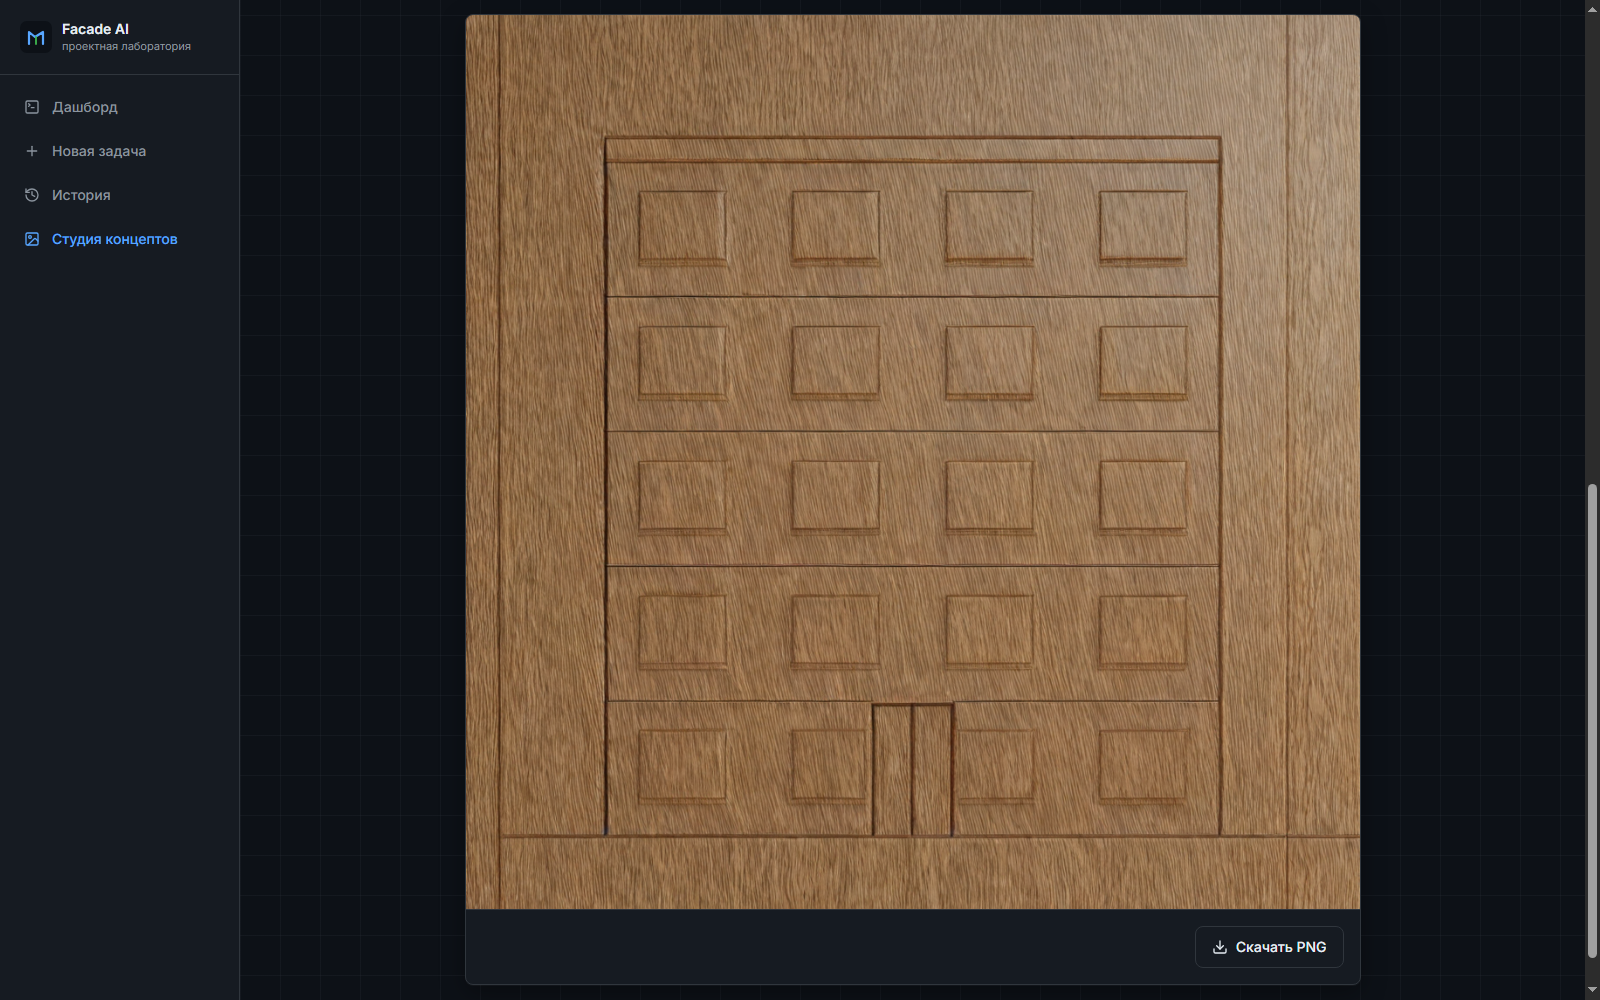
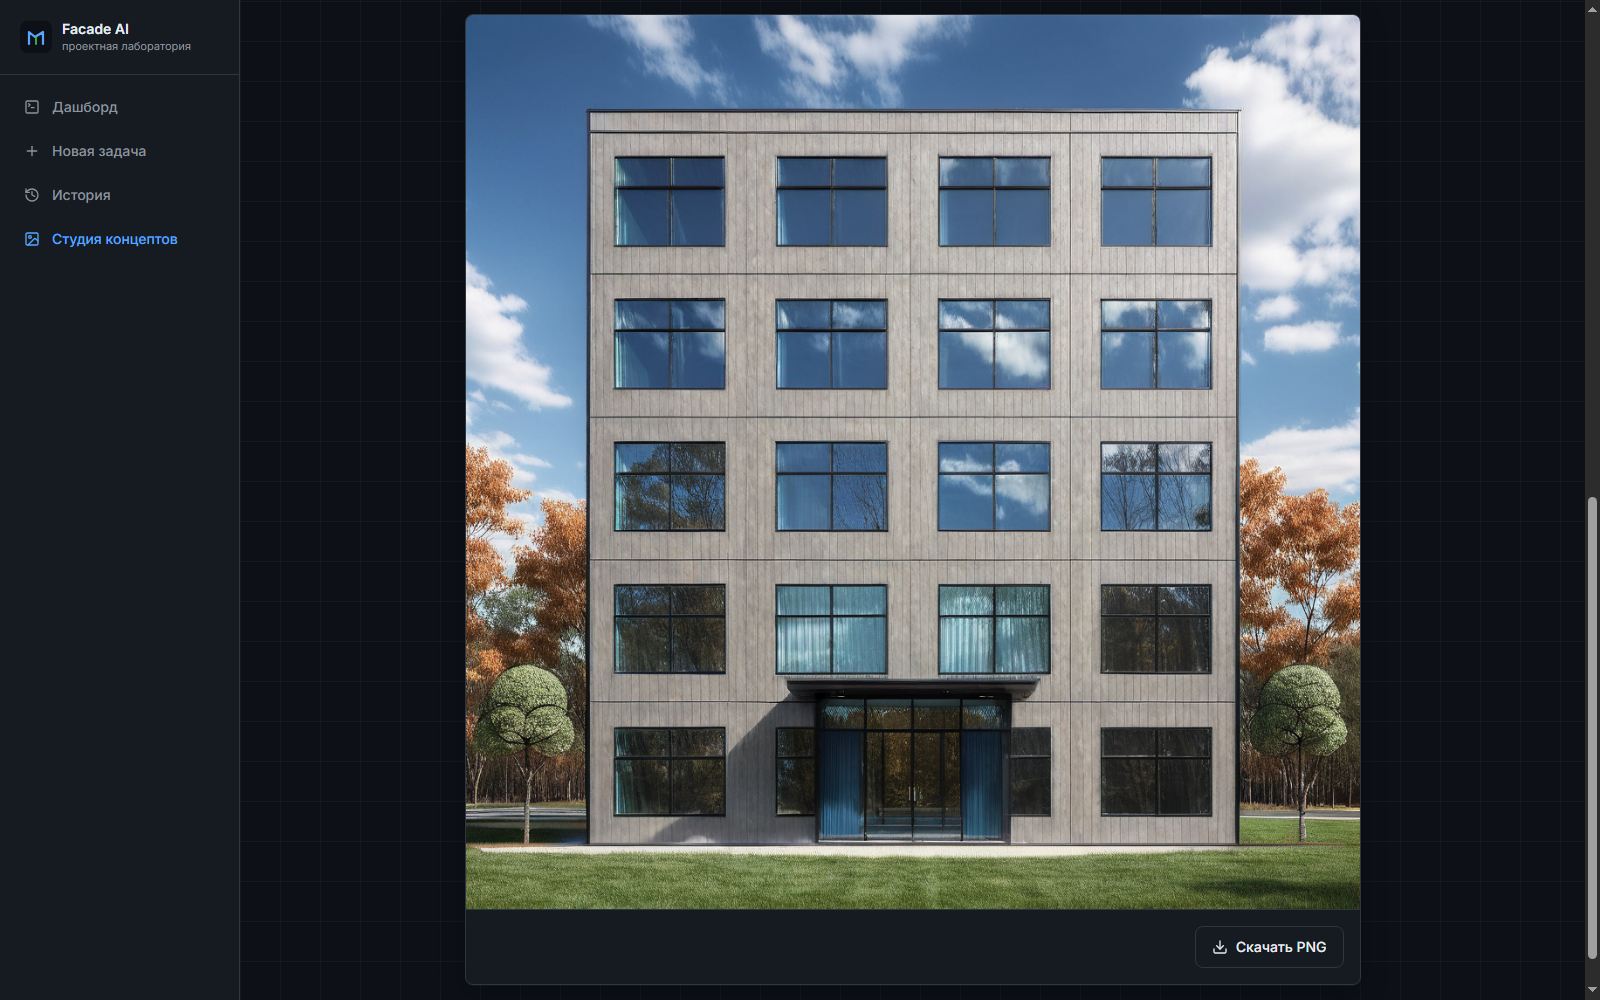
Portfolio: remove outdated Glide case; Facade AI render shot re-taken with EN prompt (photoreal result)

diff --git a/index.html b/index.html
@@ -413,7 +413,6 @@
                 <button class="projects__filter" data-filter="automation">Автоматизация</button>
                 <button class="projects__filter" data-filter="bots">Боты</button>
                 <button class="projects__filter" data-filter="sites">Сайты</button>
-                <button class="projects__filter" data-filter="nocode">No-Code</button>
                 <button class="projects__filter" data-filter="analytics">Аналитика</button>
             </div>
             <div class="projects__grid">
@@ -694,20 +693,6 @@
                     <div class="projects__links">
                         <a href="https://eduardurakov.github.io/future-tech/" target="_blank"
                             class="projects__link">Демо</a>
-                    </div>
-                </div>
-                <div class="projects__card" data-cat="nocode">
-                    <div class="projects__header">
-                        <div class="projects__title">Glide — бизнес-приложение</div>
-                        <div class="projects__description">No-Code приложение на Glide для учёта расходов с
-                            синхронизацией данных.</div>
-                        <div class="projects__tags">
-                            <span class="projects__tag">Glide</span>
-                            <span class="projects__tag">No-Code</span>
-                        </div>
-                    </div>
-                    <div class="projects__links">
-                        <a href="https://kniga-rashodov-j4dd.glide.page" target="_blank" class="projects__link">Демо</a>
                     </div>
                 </div>
                 <div class="projects__card" data-cat="sites">
